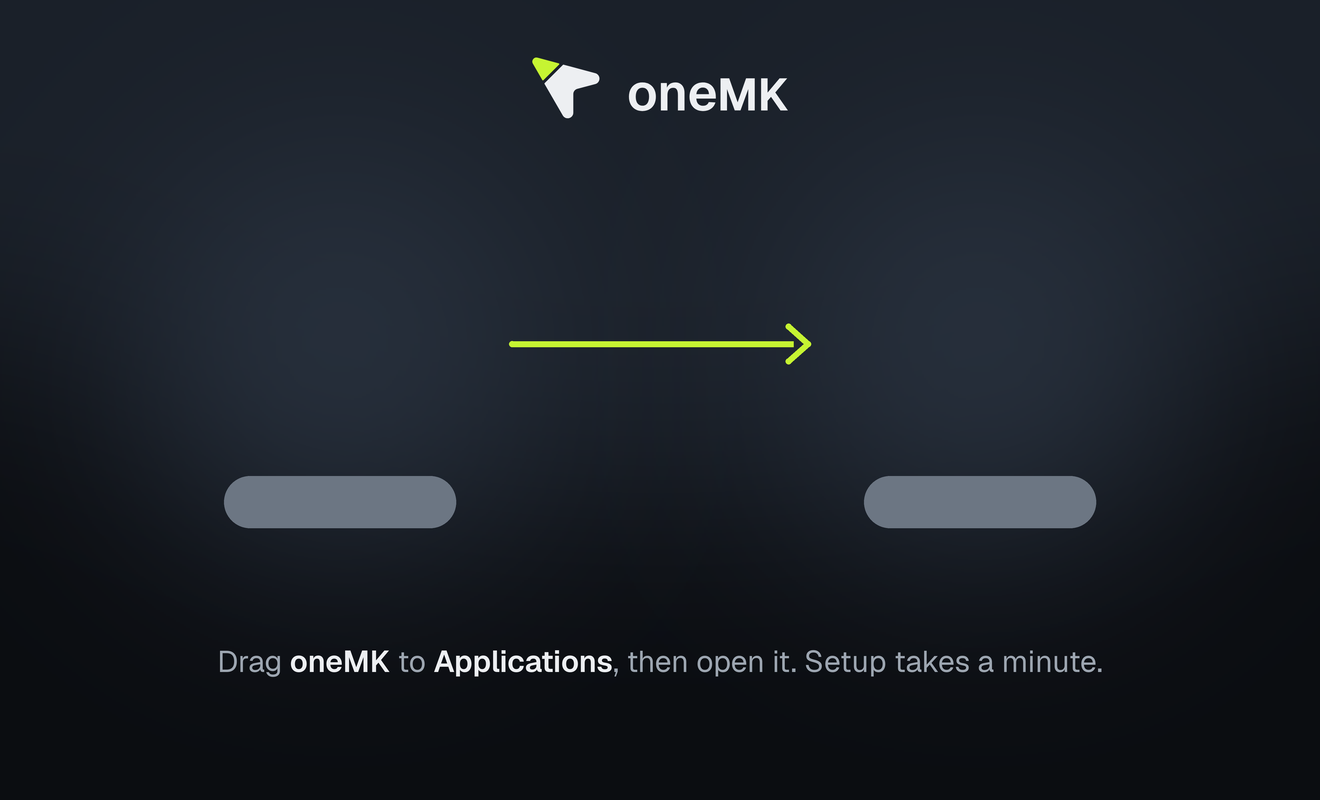
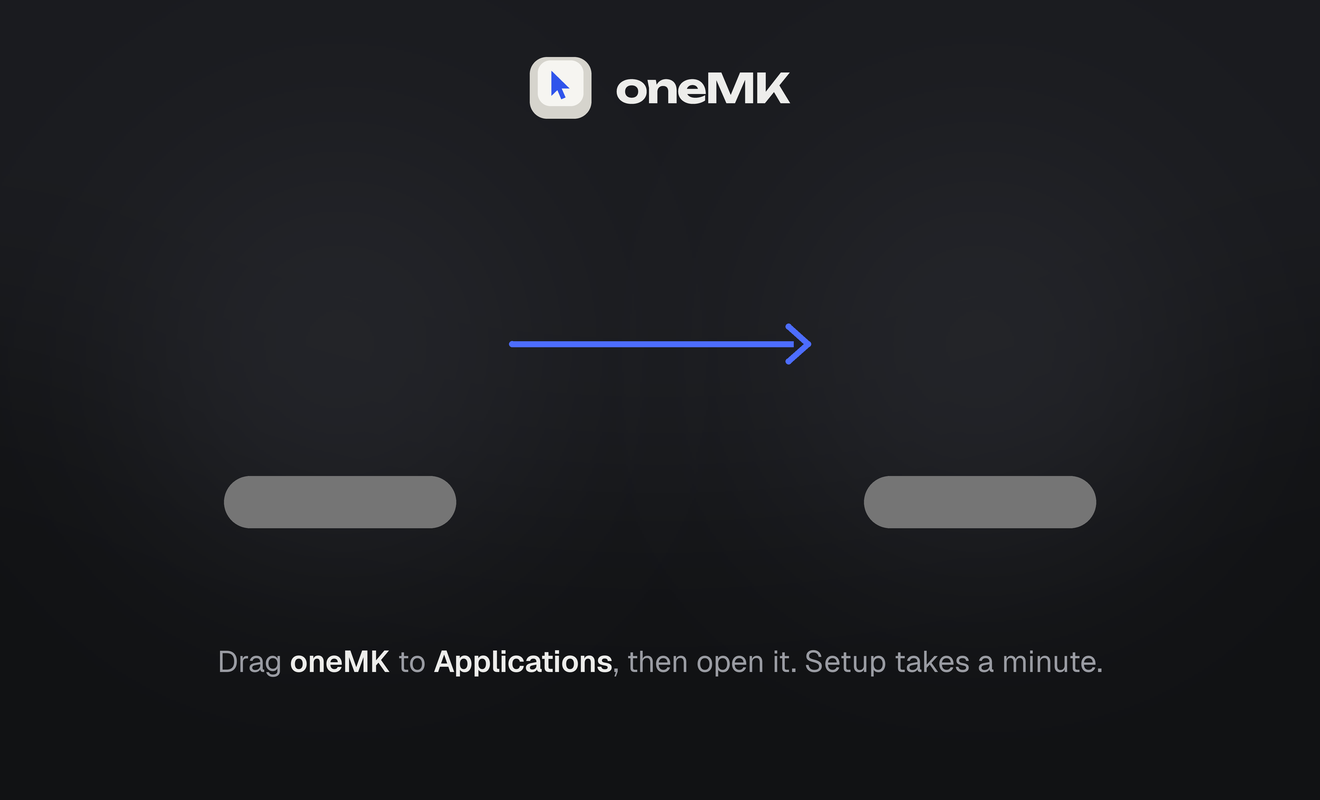
Packaging: new brand in the installer window, .deb, Windows setup and checks
The macOS installer window is redrawn in the Daylight dark colours with the
new lockup and a cobalt arrow. The .deb takes its icon from the hicolor set
(the ico-png folder is gone). The Windows installer ships onemk.ico for the
shortcuts and the uninstall entry. check-packaging.sh now runs
make-icons.py --check instead of the old token check.

Changed region(s): [[0.4038, 0.0625, 0.6212, 0.1562], [0.3727, 0.4062, 0.6212, 0.4688]]

diff --git a/scripts/dmg/make_background.py b/scripts/dmg/make_background.py
@@ -5,9 +5,11 @@
   python3 scripts/dmg/make_background.py --check    # validate everything, write a preview (see check.sh)
 
 Needs Python 3 and Pillow only. The picture is drawn from the brand files in
-docs/brand (colours from tokens.json, Geist from crates/app/fonts, the
-horizontal logo) and from the window numbers in settings.py, so the icons Finder
-draws land exactly on the glows, the arrow and the name plates painted here.
+docs/brand (the dark theme's colours from tokens.json, Inter from
+crates/app/fonts, the lockup from logo/onemk-lockup-on-dark.svg, drawn by
+scripts/brand_render.py) and from the window numbers in settings.py, so the
+icons Finder draws land exactly on the glows, the arrow and the name plates
+painted here.
 
 Why the PNGs are checked in: the release must not depend on a font renderer,
 on Pillow's version or on the network, and a reviewer can see the artwork in a
@@ -24,6 +26,9 @@ from PIL import Image, ImageDraw, ImageFilter, ImageFont
 
 HERE = os.path.dirname(os.path.abspath(__file__))
 ROOT = os.path.dirname(os.path.dirname(HERE))
+sys.path.insert(0, os.path.join(ROOT, "scripts"))
+import brand_render  # noqa: E402
+
 BRAND = os.path.join(ROOT, "docs", "brand")
 FONTS = os.path.join(ROOT, "crates", "app", "fonts")
 SETTINGS = os.path.join(HERE, "settings.py")
@@ -31,10 +36,10 @@ OUT_1X = os.path.join(HERE, "background.png")
 OUT_2X = os.path.join(HERE, "background@2x.png")
 SUPERSAMPLE = 4   # drawn at 4x the final pixel size, then reduced: smooth edges and text
 
-# Mid slate. Finder draws an icon's name in black in light mode and white in
+# Mid grey. Finder draws an icon's name in black in light mode and white in
 # dark mode, and cannot be told otherwise, so the names sit on plates this
-# colour: the one grey that gives both at least 4.5:1 (see contrast_ok).
-PLATE = "#6C7683"
+# colour: the one grey that gives both at least 4.5:1 (see the contrast check).
+PLATE = "#757575"
 PLATE_W, PLATE_H = 116, 26
 # Finder puts the name's centre this far below the icon's bottom edge.
 PLATE_DY = 15
@@ -58,9 +63,9 @@ SETTINGS_LOCAL = {"os", "app", "app_name"}
 
 
 def tokens():
+    """The dark theme's colours (docs/brand/tokens.json), as hex strings."""
     with open(os.path.join(BRAND, "tokens.json"), encoding="utf-8") as f:
-        c = json.load(f)["color"]
-    return {k: c[k]["value"] for k in c}
+        return json.load(f)["themes"]["dark"]
 
 
 def rgb(hexstr):
@@ -89,8 +94,14 @@ def load_settings(defines=None):
     return ns
 
 
-def font(name, px):
-    return ImageFont.truetype(os.path.join(FONTS, name), px)
+def font(weight, px):
+    """Inter at 'regular' or 'semi' (the window's type). Geist, which the window used before, stands in on a
+    checkout that does not have Inter's files yet."""
+    for family in ("Inter", "Geist"):
+        path = os.path.join(FONTS, "%s-%s.ttf" % (family, "SemiBold" if weight == "semi" else "Regular"))
+        if os.path.isfile(path):
+            return ImageFont.truetype(path, px)
+    raise FileNotFoundError("neither Inter nor Geist is in " + FONTS)
 
 
 def vertical_gradient_glow(size, centre, radius, strength):
@@ -106,20 +117,8 @@ def vertical_gradient_glow(size, centre, radius, strength):
 def draw_segments(d, x, baseline, segs, scale=1):
     """Draws message_segments() left to right from x and returns the end x
     (d=None only measures)."""
-    for kind, a, b, c in segs:
-        if kind == "dot":   # the interpunct is the brand's amber square, not a glyph
-            size, colour = a, b
-            sc = size / 1000.0
-            gap, side = 118 * sc, 150 * sc
-            xh = 534 * sc
-            mid = baseline - xh / 2 - 8 * sc
-            x += gap - 14 * sc
-            if d is not None:
-                d.rounded_rectangle((x, mid - side / 2, x + side, mid + side / 2), radius=6 * sc, fill=colour)
-            x += side + gap - 14 * sc
-            continue
-        text, fname, px, colour = a, b, c[0], c[1]
-        f = font(fname, round(px * scale))
+    for text, weight, px, colour in segs:
+        f = font(weight, round(px * scale))
         if d is not None:
             d.text((x, baseline), text, font=f, fill=colour, anchor="ls")
         x += f.getlength(text)
@@ -130,18 +129,17 @@ def segments_width(segs, scale):
     return draw_segments(None, 0, 0, segs, scale)
 
 
-def message_segments(scale, ink, ink2, signal, pt=15):
+def message_segments(scale, ink, ink2, pt=15):
     """'Drag oneMK to Applications, then open it. Setup takes a minute.'
     pt is the type size in points (the brand's 15 px body size); sizes in the
     result are in drawn pixels, so draw it with draw_segments(..., scale=1)."""
     px = pt * scale
-    semi, reg = "Geist-SemiBold.ttf", "Geist-Regular.ttf"
     return [
-        ("t", "Drag ", reg, (px, ink2)),
-        ("t", "oneMK", semi, (px, ink)),
-        ("t", " to ", reg, (px, ink2)),
-        ("t", "Applications", semi, (px, ink)),
-        ("t", ", then open it. Setup takes a minute.", reg, (px, ink2)),
+        ("Drag ", "regular", px, ink2),
+        ("oneMK", "semi", px, ink),
+        (" to ", "regular", px, ink2),
+        ("Applications", "semi", px, ink),
+        (", then open it. Setup takes a minute.", "regular", px, ink2),
     ]
 
 
@@ -157,12 +155,12 @@ def draw_background(cfg, scale):
     W, H = cfg["WIDTH"], cfg["HEIGHT"]
     k = scale * SUPERSAMPLE
     size = (W * k, H * k)
-    ground = rgb(t["ground"])
-    ink, ink2, signal = rgb(t["ink"]), rgb(t["ink2"]), rgb(t["signal"])
+    ground = rgb(t["bg"])
+    ink, ink2, accent = rgb(t["ink"]), rgb(t["ink2"]), rgb(t["accent"])
 
     # Ground, with a faint light from above (the app icon's tile does the same).
     im = Image.new("RGB", size, ground)
-    top = Image.new("RGB", size, rgb("#1A2029"))
+    top = Image.new("RGB", size, rgb(t["surface"]))
     mask = Image.new("L", size, 0)
     md = ImageDraw.Draw(mask)
     md.ellipse((-W * k * 0.25, -H * k * 1.15, W * k * 1.25, H * k * 0.62), fill=255)
@@ -173,7 +171,7 @@ def draw_background(cfg, scale):
     icon_r = cfg["icon_size"] / 2
     for cx in (cfg["APP_X"], cfg["APPS_X"]):
         glow = vertical_gradient_glow(size, (cx * k, cfg["ICONS_Y"] * k), icon_r * 1.55 * k, 1.0)
-        im = Image.composite(Image.new("RGB", size, rgb("#29323F")), im, glow)
+        im = Image.composite(Image.new("RGB", size, rgb(t["surface2"])), im, glow)
 
     d = ImageDraw.Draw(im, "RGBA")
 
@@ -183,29 +181,28 @@ def draw_background(cfg, scale):
         box = ((cx - PLATE_W / 2) * k, (py - PLATE_H / 2) * k, (cx + PLATE_W / 2) * k, (py + PLATE_H / 2) * k)
         d.rounded_rectangle(box, radius=PLATE_H / 2 * k, fill=rgb(PLATE))
 
-    # The arrow: a calm amber line from one icon toward the other, round caps.
+    # The arrow: a calm cobalt line from one icon toward the other, round caps.
     y = cfg["ICONS_Y"] * k
     x0 = (cfg["APP_X"] + icon_r + ARROW_GAP) * k
     x1 = (cfg["APPS_X"] - icon_r - ARROW_GAP) * k
     w = 3 * k
     head, spread = 13 * k, math.radians(42)
-    d.line((x0, y, x1 - head * 0.55, y), fill=signal, width=int(w))
+    d.line((x0, y, x1 - head * 0.55, y), fill=accent, width=int(w))
     for sgn in (-1, 1):
-        d.line((x1 - head * math.cos(spread), y + sgn * head * math.sin(spread), x1, y), fill=signal, width=int(w))
+        d.line((x1 - head * math.cos(spread), y + sgn * head * math.sin(spread), x1, y), fill=accent, width=int(w))
     for px_, py_ in ((x0, y), (x1, y),
                      (x1 - head * math.cos(spread), y - head * math.sin(spread)),
                      (x1 - head * math.cos(spread), y + head * math.sin(spread))):
-        d.ellipse((px_ - w / 2, py_ - w / 2, px_ + w / 2, py_ + w / 2), fill=signal)
+        d.ellipse((px_ - w / 2, py_ - w / 2, px_ + w / 2, py_ + w / 2), fill=accent)
 
     # The logo, centred at the top.
-    logo = Image.open(os.path.join(BRAND, "logo", "png", "onemk-lockup-horizontal-reversed.png")).convert("RGBA")
+    # (the SVG has 5 of its 234 units of clear space either side of the ink)
+    logo = brand_render.render(os.path.join(BRAND, "logo", "onemk-lockup-on-dark.svg"), round(LOGO_W * k * 234 / 224), supersample=2)
     logo = logo.crop(logo.getbbox())
-    lw = LOGO_W * k
-    logo = logo.resize((lw, round(logo.height * lw / logo.width)), Image.LANCZOS)
-    im.paste(logo, (round((size[0] - lw) / 2), round(LOGO_Y * k - logo.height / 2)), logo)
+    im.paste(logo, (round((size[0] - logo.width) / 2), round(LOGO_Y * k - logo.height / 2)), logo)
 
     # The one line of instruction, centred.
-    segs = message_segments(k, ink, ink2, signal)
+    segs = message_segments(k, ink, ink2)
     tw = segments_width(segs, 1)
     draw_segments(d, (size[0] - tw) / 2, TEXT_BASELINE * k, segs, 1)
 
@@ -221,7 +218,7 @@ def sans(px, bold=False):
               "/System/Library/Fonts/Helvetica.ttc", "C:/Windows/Fonts/arial.ttf"):
         if os.path.exists(p):
             return ImageFont.truetype(p, px)
-    return font("Geist-SemiBold.ttf" if bold else "Geist-Regular.ttf", px)
+    return font("semi" if bold else "regular", px)
 
 
 def stand_in_folder(px):
@@ -339,9 +336,9 @@ def checks(cfg, out_preview):
     ground = bg.getpixel((W // 2, H - 4))
     for name in ("ink", "ink2"):
         ok(contrast(rgb(t[name]), ground) >= 4.5, "instruction text colour %s %.1f:1 on the ground" % (name, contrast(rgb(t[name]), ground)))
-    # the amber arrow
-    ok(contrast(rgb(t["signal"]), bg.getpixel((W // 2, int(ay) - 24))) >= 3.0, "arrow is at least 3:1 against the background")
-    seg_w = segments_width(message_segments(1, rgb(t["ink"]), rgb(t["ink2"]), rgb(t["signal"])), 1)
+    # the cobalt arrow
+    ok(contrast(rgb(t["accent"]), bg.getpixel((W // 2, int(ay) - 24))) >= 3.0, "arrow is at least 3:1 against the background")
+    seg_w = segments_width(message_segments(1, rgb(t["ink"]), rgb(t["ink2"])), 1)
     ok(seg_w <= W - 2 * 60, "the instruction line (%d points) fits with at least 60 points either side" % seg_w)
 
     # the preview

diff --git a/docs/PACKAGING.md b/docs/PACKAGING.md
@@ -138,7 +138,7 @@ one-mk.app/Contents/Info.plist
 ### The installer window
 
 Opening the `.dmg` shows a fixed 660 x 400 window in the brand's dark look:
-the oneMK icon on the left, the Applications folder on the right, an amber
+the oneMK icon on the left, the Applications folder on the right, a cobalt
 arrow between them and one line, "Drag oneMK to Applications, then open it.
 Setup takes a minute." No toolbar, sidebar or status bar. The app then guides
 the user through pairing, so there is no terminal step.
@@ -146,7 +146,7 @@ the user through pairing, so there is no terminal step.
 | file | what it is |
 |---|---|
 | `scripts/dmg/settings.py` | the dmgbuild settings: window size and place, icon size, the two icon positions, the hidden toolbar and sidebar, the `Applications` link, the volume icon (`docs/brand/app-icon/macos/onemk.icns`) |
-| `scripts/dmg/make_background.py` | draws the artwork with Pillow from the brand files (`docs/brand/tokens.json`, the Geist fonts in `crates/app/fonts`, the logo) and the numbers in `settings.py`; `--check` validates everything and writes the preview |
+| `scripts/dmg/make_background.py` | draws the artwork with Pillow from the brand files (the dark colours in `docs/brand/tokens.json`, Inter from `crates/app/fonts`, `docs/brand/logo/onemk-lockup-on-dark.svg` drawn by `scripts/brand_render.py`) and the numbers in `settings.py`; `--check` validates everything and writes the preview |
 | `scripts/dmg/background.png`, `background@2x.png` | the drawn art, **checked in**: the release then needs no fonts, no Pillow and no particular Pillow version, and a change to the art shows in review. `check.sh` fails if they no longer match the script. Tagged 72 and 144 dpi; dmgbuild finds the `@2x` file next to the first and joins them with `tiffutil -cathidpicheck` into the multi-resolution TIFF Finder wants |
 | `scripts/dmg/check.sh` | the check, runs anywhere with Python 3 and Pillow; also part of `check-packaging.sh` and CI |
 
